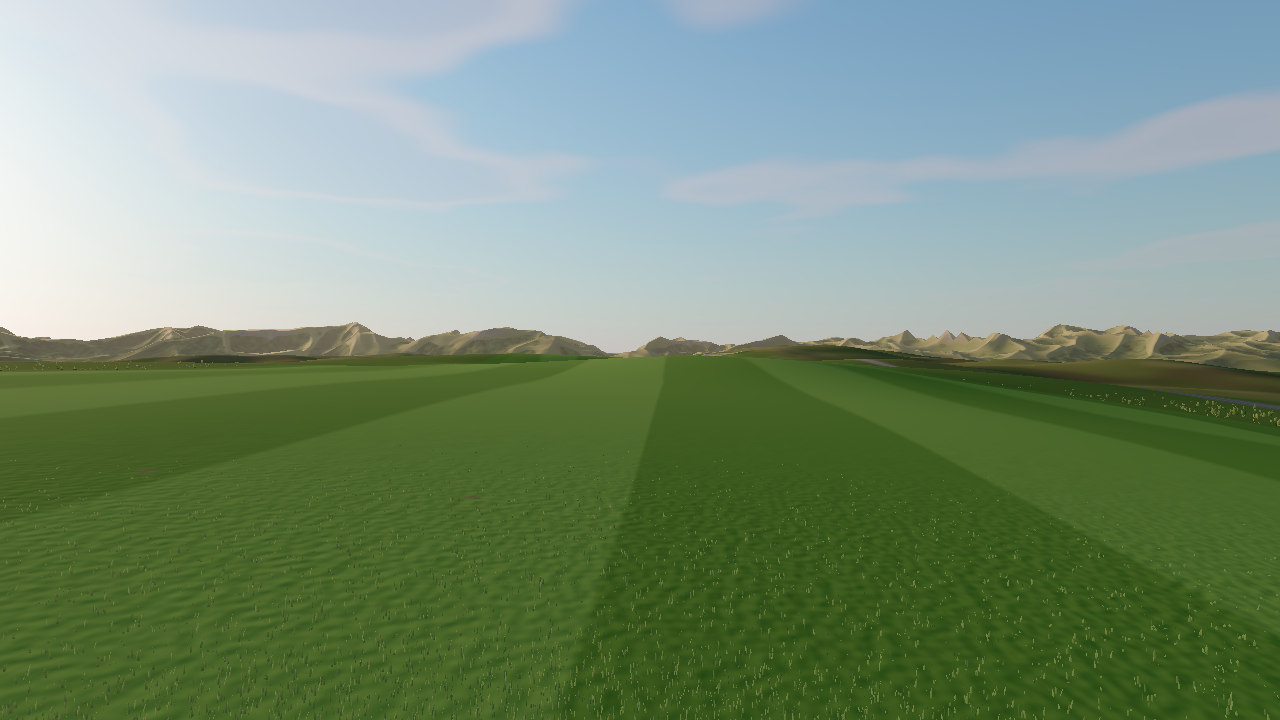
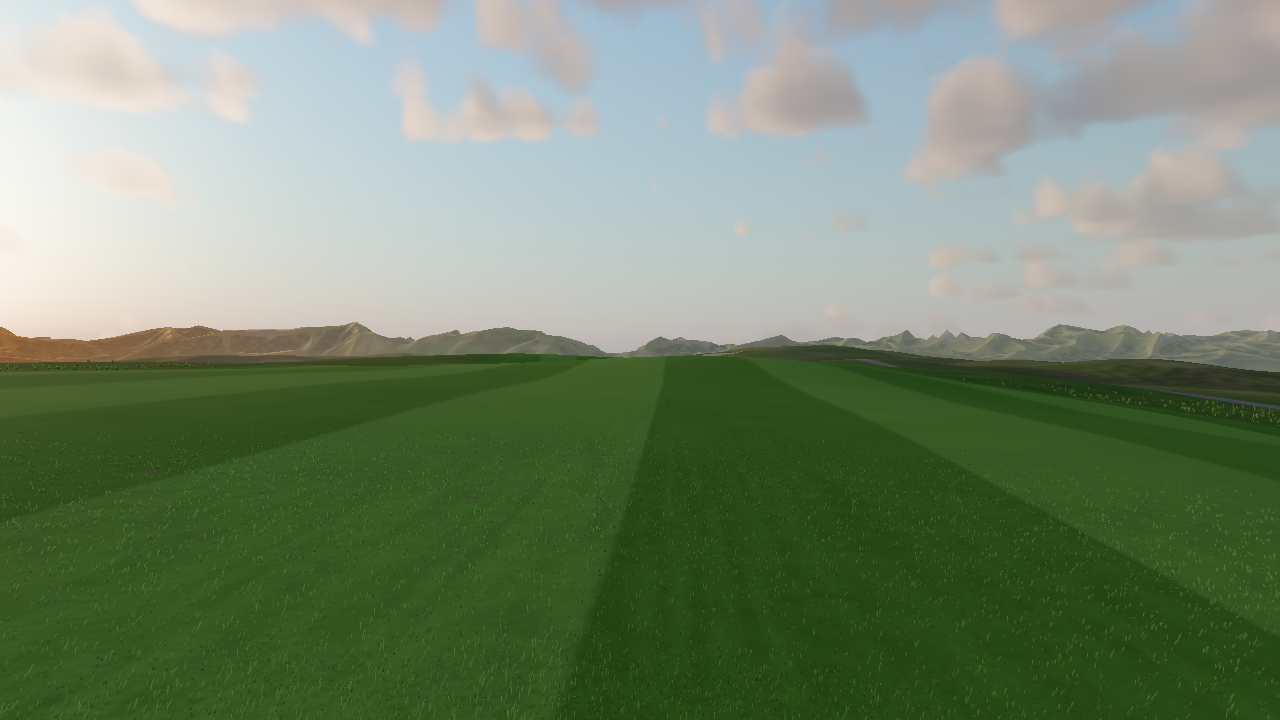
Grass builder landed: GPU-placed 4-ring LOD grass with mowing-stripe continuity, translucency, wind gusts, interaction
Claude-Session: https://claude.ai/code/session_012cREUAMXJ7K5tmU3sz6vhK

diff --git a/src/render/terrain/FarRing.ts b/src/render/terrain/FarRing.ts
@@ -1,0 +1,149 @@
+/**
+ * Horizon ring: low-poly procedural mountains beyond the baked 1600 m world, so no camera
+ * (including high overview shots) ever sees the edge of the heightmap.
+ *
+ * Geometry is a stack of concentric squares around the world edge, all with the same number
+ * of perimeter vertices. Ring 0 lies exactly on the world edge at the coarsest terrain LOD
+ * spacing with the exact heightmap heights, so it meets the terrain chunks without a gap (the
+ * chunks' skirts hide the sub-metre mismatch at finer LODs). Heights rise outward into ridged
+ * forested ranges with a few rocky peaks; aerial perspective (fog) does the rest.
+ *
+ * It is drawn with the regular terrain splat material compiled with TERRAIN_FAR (vertex
+ * normals instead of the slope texture), so lighting, canopy and rock match the rim hills.
+ * Cost: 1 draw call, ~20k triangles, no shadow casting.
+ */
+import * as THREE from 'three';
+import type { CourseGrids } from '../../course/CourseField';
+import { Simplex2, smoothstep } from '../../course/noise';
+
+/** Perimeter spacing at the world edge (m) — matches the coarsest terrain LOD (16 cells). */
+const EDGE_SPACING = 20;
+/** Outer extent of the ring beyond the world edge (m). */
+const RING_EXTENT = 3000;
+/** Radial spacing: grows with distance (fine near the seam, coarse far away). */
+const RING_STEP_MIN = 12;
+const RING_STEP_GROWTH = 0.11;
+/** Height of the ranges: [distance (m), typical height (m), ridge amplitude (m)]. Kept low so
+ *  the ranges read as layered, rolling ridgelines just above the course rim, not alpine peaks. */
+const PROFILE: [number, number, number][] = [
+  [0, 0, 0],
+  [250, 42, 22],
+  [700, 62, 40],
+  [1400, 85, 62],
+  [2200, 108, 80],
+  [3000, 80, 70],
+];
+/** Horizontal scale of the ranges (m): large → broad, well-sampled forms (no spiky triangles). */
+const RIDGE_SCALE = 1300;
+const ROLL_SCALE = 600;
+
+function ringDistances(): number[] {
+  const d = [0];
+  while (d[d.length - 1] < RING_EXTENT) {
+    const last = d[d.length - 1];
+    d.push(Math.min(RING_EXTENT, last + Math.max(RING_STEP_MIN, last * RING_STEP_GROWTH)));
+  }
+  return d;
+}
+const SEED = 9001;
+
+function profile(d: number): [number, number] {
+  for (let k = 1; k < PROFILE.length; k++) {
+    const [d1, h1, a1] = PROFILE[k];
+    const [d0, h0, a0] = PROFILE[k - 1];
+    if (d <= d1) {
+      const t = smoothstep(0, 1, (d - d0) / (d1 - d0));
+      return [h0 + (h1 - h0) * t, a0 + (a1 - a0) * t];
+    }
+  }
+  const last = PROFILE[PROFILE.length - 1];
+  return [last[1], last[2]];
+}
+
+/** Bilinear height from the baked grid (exact on grid lines). */
+function gridHeight(g: CourseGrids, x: number, z: number): number {
+  const cell = (2 * g.half) / (g.res - 1);
+  const fx = Math.min(g.res - 1.0001, Math.max(0, (x + g.half) / cell));
+  const fz = Math.min(g.res - 1.0001, Math.max(0, (z + g.half) / cell));
+  const i = Math.floor(fx);
+  const j = Math.floor(fz);
+  const tx = fx - i;
+  const tz = fz - j;
+  const H = (a: number, b: number) => g.heights[b * g.res + a];
+  return (H(i, j) * (1 - tx) + H(i + 1, j) * tx) * (1 - tz) + (H(i, j + 1) * (1 - tx) + H(i + 1, j + 1) * tx) * tz;
+}
+
+/** Point on the perimeter of a square of half-size s, parameter t in [0, 1) (CCW from -x,-z). */
+function squarePoint(s: number, t: number): [number, number] {
+  const u = t * 4;
+  const side = Math.floor(u);
+  const f = (u - side) * 2 - 1; // -1..1 along the side
+  switch (side) {
+    case 0: return [f * s, -s];
+    case 1: return [s, f * s];
+    case 2: return [-f * s, s];
+    default: return [-s, -f * s];
+  }
+}
+
+export function buildFarRingGeometry(g: CourseGrids): THREE.BufferGeometry {
+  const n = new Simplex2(SEED);
+  const half = g.half;
+  const perSide = Math.round((2 * half) / EDGE_SPACING);
+  const M = perSide * 4;
+  const RING_DIST = ringDistances();
+  const pos: number[] = [];
+  for (let r = 0; r < RING_DIST.length; r++) {
+    const d = RING_DIST[r];
+    const s = half + d;
+    const [base, amp] = profile(d);
+    for (let k = 0; k < M; k++) {
+      const [x, z] = squarePoint(s, k / M);
+      let y: number;
+      if (r === 0) {
+        y = gridHeight(g, x, z);
+      } else {
+        // continue the edge height outward, blending into the ranges
+        const [ex, ez] = squarePoint(half, k / M);
+        const edgeH = gridHeight(g, ex, ez);
+        const w = smoothstep(0, 220, d);
+        const ridge = 0.6 * n.ridged(x / RIDGE_SCALE, z / RIDGE_SCALE, 3) + 0.4 * (0.5 + 0.5 * n.fbm(x / ROLL_SCALE + 2.1, z / ROLL_SCALE - 4.4, 3));
+        const roll = n.fbm(x / 2600 + 5.3, z / 2600 - 1.7, 2);
+        const mount = base * (0.7 + 0.6 * roll) + amp * (ridge - 0.4) * 1.6;
+        y = edgeH * (1 - w) + Math.max(edgeH * 0.5, mount + edgeH * 0.6) * w;
+      }
+      pos.push(x, y, z);
+    }
+  }
+  const idx: number[] = [];
+  for (let r = 0; r < RING_DIST.length - 1; r++) {
+    for (let k = 0; k < M; k++) {
+      const a = r * M + k;
+      const b = r * M + ((k + 1) % M);
+      const c = (r + 1) * M + k;
+      const e = (r + 1) * M + ((k + 1) % M);
+      // CCW seen from above (+y): inner ring walks CCW in x/z = clockwise in screen space,
+      // so order (a, c, b) / (b, c, e) gives upward normals.
+      idx.push(a, b, c, b, e, c);
+    }
+  }
+  const geo = new THREE.BufferGeometry();
+  geo.setAttribute('position', new THREE.Float32BufferAttribute(pos, 3));
+  geo.setIndex(idx);
+  geo.computeVertexNormals();
+  // Ensure normals point up (winding conventions differ per side otherwise).
+  const nrm = geo.getAttribute('normal') as THREE.BufferAttribute;
+  let up = 0;
+  for (let i = 0; i < nrm.count; i++) up += nrm.getY(i);
+  if (up < 0) {
+    for (let i = 0; i < idx.length; i += 3) {
+      const t = idx[i + 1];
+      idx[i + 1] = idx[i + 2];
+      idx[i + 2] = t;
+    }
+    geo.setIndex(idx);
+    geo.computeVertexNormals();
+  }
+  geo.computeBoundingSphere();
+  return geo;
+}

diff --git a/src/render/Terrain.ts b/src/render/Terrain.ts
@@ -5,13 +5,27 @@
  * cross-cut greens, tees, rough, deep rough with fescue, forest floor, rim forest/rock, raked
  * sand, cart paths and lake beds.
  *
- * Cost: one draw call per LOD level (≤ 5) for the main pass + ≤ 2 for the sun shadow pass.
+ * A low-poly horizon ring of procedural mountains (terrain/FarRing.ts) continues the landscape
+ * beyond the baked 1600 m world so the heightmap edge is never visible.
+ *
+ * Cost: one draw call per LOD level (≤ 5) + 1 for the horizon ring in the main pass, ≤ 2 for
+ * the sun shadow pass.
  */
 import * as THREE from 'three';
 import { courseUniforms, globalUniforms, type FrameContext, type InitContext, type QualityPreset, type RenderModule } from './shared';
 import { ChunkSelector, LOD_STEPS, buildChunks, buildLevelGeometry, lodSwitchDistances, morphWindows, shadowCastingLevel } from './terrain/ChunkGrid';
 import { bakeSlopeTexture, buildMowData } from './terrain/TerrainData';
-import { TERRAIN_FRAGMENT_PARS, TERRAIN_NORMAL, TERRAIN_ROUGHNESS, TERRAIN_SPECULAR, TERRAIN_SURFACE, TERRAIN_VERTEX_PARS } from './terrain/terrainShader';
+import { buildFarRingGeometry } from './terrain/FarRing';
+import {
+  TERRAIN_FAR_VERTEX,
+  TERRAIN_FAR_VERTEX_PARS,
+  TERRAIN_FRAGMENT_PARS,
+  TERRAIN_NORMAL,
+  TERRAIN_ROUGHNESS,
+  TERRAIN_SPECULAR,
+  TERRAIN_SURFACE,
+  TERRAIN_VERTEX_PARS,
+} from './terrain/terrainShader';
 
 /** Shader detail level per quality preset (0 = cheapest). */
 const DETAIL_BY_QUALITY: Record<QualityPreset['level'], number> = { low: 0, medium: 1, high: 2, ultra: 2 };
@@ -24,6 +38,8 @@ export class Terrain implements RenderModule {
   /** LOD0 material (all levels share one program; they differ only by morph/step uniforms). */
   material!: THREE.MeshStandardMaterial;
   materials: THREE.MeshStandardMaterial[] = [];
+  /** Horizon ring beyond the world edge. */
+  farRing: THREE.Mesh | null = null;
   /** RGBA16F: (dh/dx, dh/dz, small-scale curvature, large-scale curvature). Usable by other modules. */
   slopeTexture!: THREE.DataTexture;
   private depthMaterials: THREE.MeshDepthMaterial[] = [];
@@ -75,6 +91,16 @@ export class Terrain implements RenderModule {
       this.group.add(mesh);
     });
     this.material = this.materials[0];
+
+    const farMat = this.createMaterial(shared, true);
+    this.materials.push(farMat);
+    this.farRing = new THREE.Mesh(buildFarRingGeometry(g), farMat);
+    this.farRing.name = 'terrain-horizon';
+    this.farRing.receiveShadow = false;
+    this.farRing.castShadow = false;
+    this.farRing.matrixAutoUpdate = false;
+    this.farRing.raycast = () => {};
+    this.group.add(this.farRing);
     this.selector = new ChunkSelector(chunks, this.meshes);
     ctx.scene.add(this.group);
     this.setQuality(ctx.quality);
@@ -113,21 +139,29 @@ export class Terrain implements RenderModule {
 
   dispose() {
     for (const m of this.meshes) m.geometry.dispose();
+    this.farRing?.geometry.dispose();
     for (const m of this.materials) m.dispose();
     for (const m of this.depthMaterials) m.dispose();
     this.slopeTexture?.dispose();
     this.group.removeFromParent();
   }
 
-  private createMaterial(uniforms: Record<string, THREE.IUniform>) {
+  /** Splat material; `far` = horizon-ring variant (plain geometry with vertex normals). */
+  private createMaterial(uniforms: Record<string, THREE.IUniform>, far = false) {
     const mat = new THREE.MeshStandardMaterial({ color: 0xffffff, roughness: 0.95, metalness: 0 });
-    mat.defines = { TERRAIN_COLOR: '', TERRAIN_DETAIL: this.detail };
+    mat.defines = far ? { TERRAIN_COLOR: '', TERRAIN_FAR: '', TERRAIN_DETAIL: this.detail } : { TERRAIN_COLOR: '', TERRAIN_DETAIL: this.detail };
     mat.onBeforeCompile = (shader) => {
       Object.assign(shader.uniforms, uniforms);
-      shader.vertexShader = shader.vertexShader
-        .replace('#include <common>', `#include <common>\n${TERRAIN_VERTEX_PARS}`)
-        .replace('#include <beginnormal_vertex>', 'vec3 tNrmW;\nvec3 tLocal = terrainDisplace(position, tNrmW);\nvec3 objectNormal = tNrmW;')
-        .replace('#include <begin_vertex>', 'vec3 transformed = tLocal;');
+      if (far) {
+        shader.vertexShader = shader.vertexShader
+          .replace('#include <common>', `#include <common>\n${TERRAIN_FAR_VERTEX_PARS}`)
+          .replace('#include <begin_vertex>', `#include <begin_vertex>\n${TERRAIN_FAR_VERTEX}`);
+      } else {
+        shader.vertexShader = shader.vertexShader
+          .replace('#include <common>', `#include <common>\n${TERRAIN_VERTEX_PARS}`)
+          .replace('#include <beginnormal_vertex>', 'vec3 tNrmW;\nvec3 tLocal = terrainDisplace(position, tNrmW);\nvec3 objectNormal = tNrmW;')
+          .replace('#include <begin_vertex>', 'vec3 transformed = tLocal;');
+      }
       shader.fragmentShader = shader.fragmentShader
         .replace('#include <common>', `#include <common>\n${TERRAIN_FRAGMENT_PARS}`)
         .replace('#include <color_fragment>', `#include <color_fragment>\n${TERRAIN_SURFACE}`)
@@ -135,7 +169,7 @@ export class Terrain implements RenderModule {
         .replace('#include <normal_fragment_maps>', `#include <normal_fragment_maps>\n${TERRAIN_NORMAL}`)
         .replace('#include <lights_physical_fragment>', `#include <lights_physical_fragment>\n${TERRAIN_SPECULAR}`);
     };
-    mat.customProgramCacheKey = () => PROGRAM_KEY;
+    mat.customProgramCacheKey = () => (far ? `${PROGRAM_KEY}-far` : PROGRAM_KEY);
     return mat;
   }
 

diff --git a/src/render/terrain/terrainShader.ts b/src/render/terrain/terrainShader.ts
@@ -66,6 +66,17 @@ vec3 terrainDisplace(vec3 p, out vec3 nrmW) {
 }
 `;
 
+// ------------------------------------------------------------------ horizon ring vertex
+/** Vertex pars / injection for the far ring (plain geometry with baked normals). */
+export const TERRAIN_FAR_VERTEX_PARS = /* glsl */ `
+varying vec3 vWorldPos;
+varying vec2 vFarGrad;
+`;
+export const TERRAIN_FAR_VERTEX = /* glsl */ `
+vWorldPos = (modelMatrix * vec4(transformed, 1.0)).xyz;
+vFarGrad = -normal.xz / max(normal.y, 0.2);
+`;
+
 // ------------------------------------------------------------------ fragment
 export const TERRAIN_FRAGMENT_PARS = /* glsl */ `
 #define MAX_FAIRWAY_SEGS ${MAX_FAIRWAY_SEGS}
@@ -79,6 +90,9 @@ uniform int uFairCount;
 uniform vec4 uGreens[MAX_HOLES];
 uniform vec4 uTees[MAX_HOLES];
 uniform int uHoleCount;
+#ifdef TERRAIN_FAR
+varying vec2 vFarGrad;
+#endif
 ${COURSE_GLSL}
 
 // Detail outputs consumed by the roughness / normal stages.
@@ -199,7 +213,11 @@ tSpec = 0.12;
   float fp = max(0.002, max(fwMin, 0.55 * fwMax));      // metres per pixel
   vec2 viewXZ = normalize(xz - uCameraPos.xz + vec2(1e-4));
 
+  #ifdef TERRAIN_FAR
+  vec4 sl = vec4(vFarGrad, 0.0, -0.3);   // horizon ring: slope from vertex normals, convex
+  #else
   vec4 sl = texture2D(uSlopeTex, courseUV(xz));
+  #endif
   tSlopeG = sl.xy;
   float slope = 1.0 - inversesqrt(1.0 + dot(sl.xy, sl.xy)); // 1 - n.y
   float curvS = sl.z;   // + hollow / - bump (few metres)

diff --git a/tests/props.test.ts b/tests/props.test.ts
@@ -1,6 +1,8 @@
 import { describe, expect, it } from 'vitest';
 import { Quaternion, Vector3 } from 'three';
 import { StaticIndex, SweepAccumulator, makePrimitive, sweepPrimitive, type SweepResult } from '../src/props/collision';
+import { PROP_SITES } from '../src/props/sites';
+import { CourseField } from '../src/course/CourseField';
 
 const R = 0.021335;
 const res = (): SweepResult => ({ t: 0, normal: new Vector3(), point: new Vector3() });
@@ -65,5 +67,10 @@ describe('prop collision primitives', () => {
     acc.reset();
     idx.forEachNear(a, b, R, (p) => acc.test(p, a, b, R));
     expect(acc.best?.id).toBe('t4');
+  });
+
+  it('hittable prop sites stay off fairways, greens, tees, bunkers and water', () => {
+    const f = new CourseField();
+    for (const site of PROP_SITES) expect(['rough', 'deepRough', 'path', 'dirt'], site.name).toContain(f.surface(site.x, site.z));
   });
 });

diff --git a/src/render/Trees.ts b/src/render/Trees.ts
@@ -62,7 +62,7 @@ const LODS: Record<QualityPreset['level'], LodDistances> = {
   ultra: { l0: 80, l1: 300, b0: 34, b1: 130, bushFar: 400, rock0: 60, rockFar: 520, flowerFar: 110, impTile: 256, lod1Shadows: true },
 };
 /** Fade band half-widths as a fraction of the switch distance. */
-const BAND = 0.14;
+const BAND = 0.08;
 /** Shrubs / rocks / flower patches relative to treeCount. */
 const BUSH_RATIO = 0.7;
 const ROCK_RATIO = 0.22;
